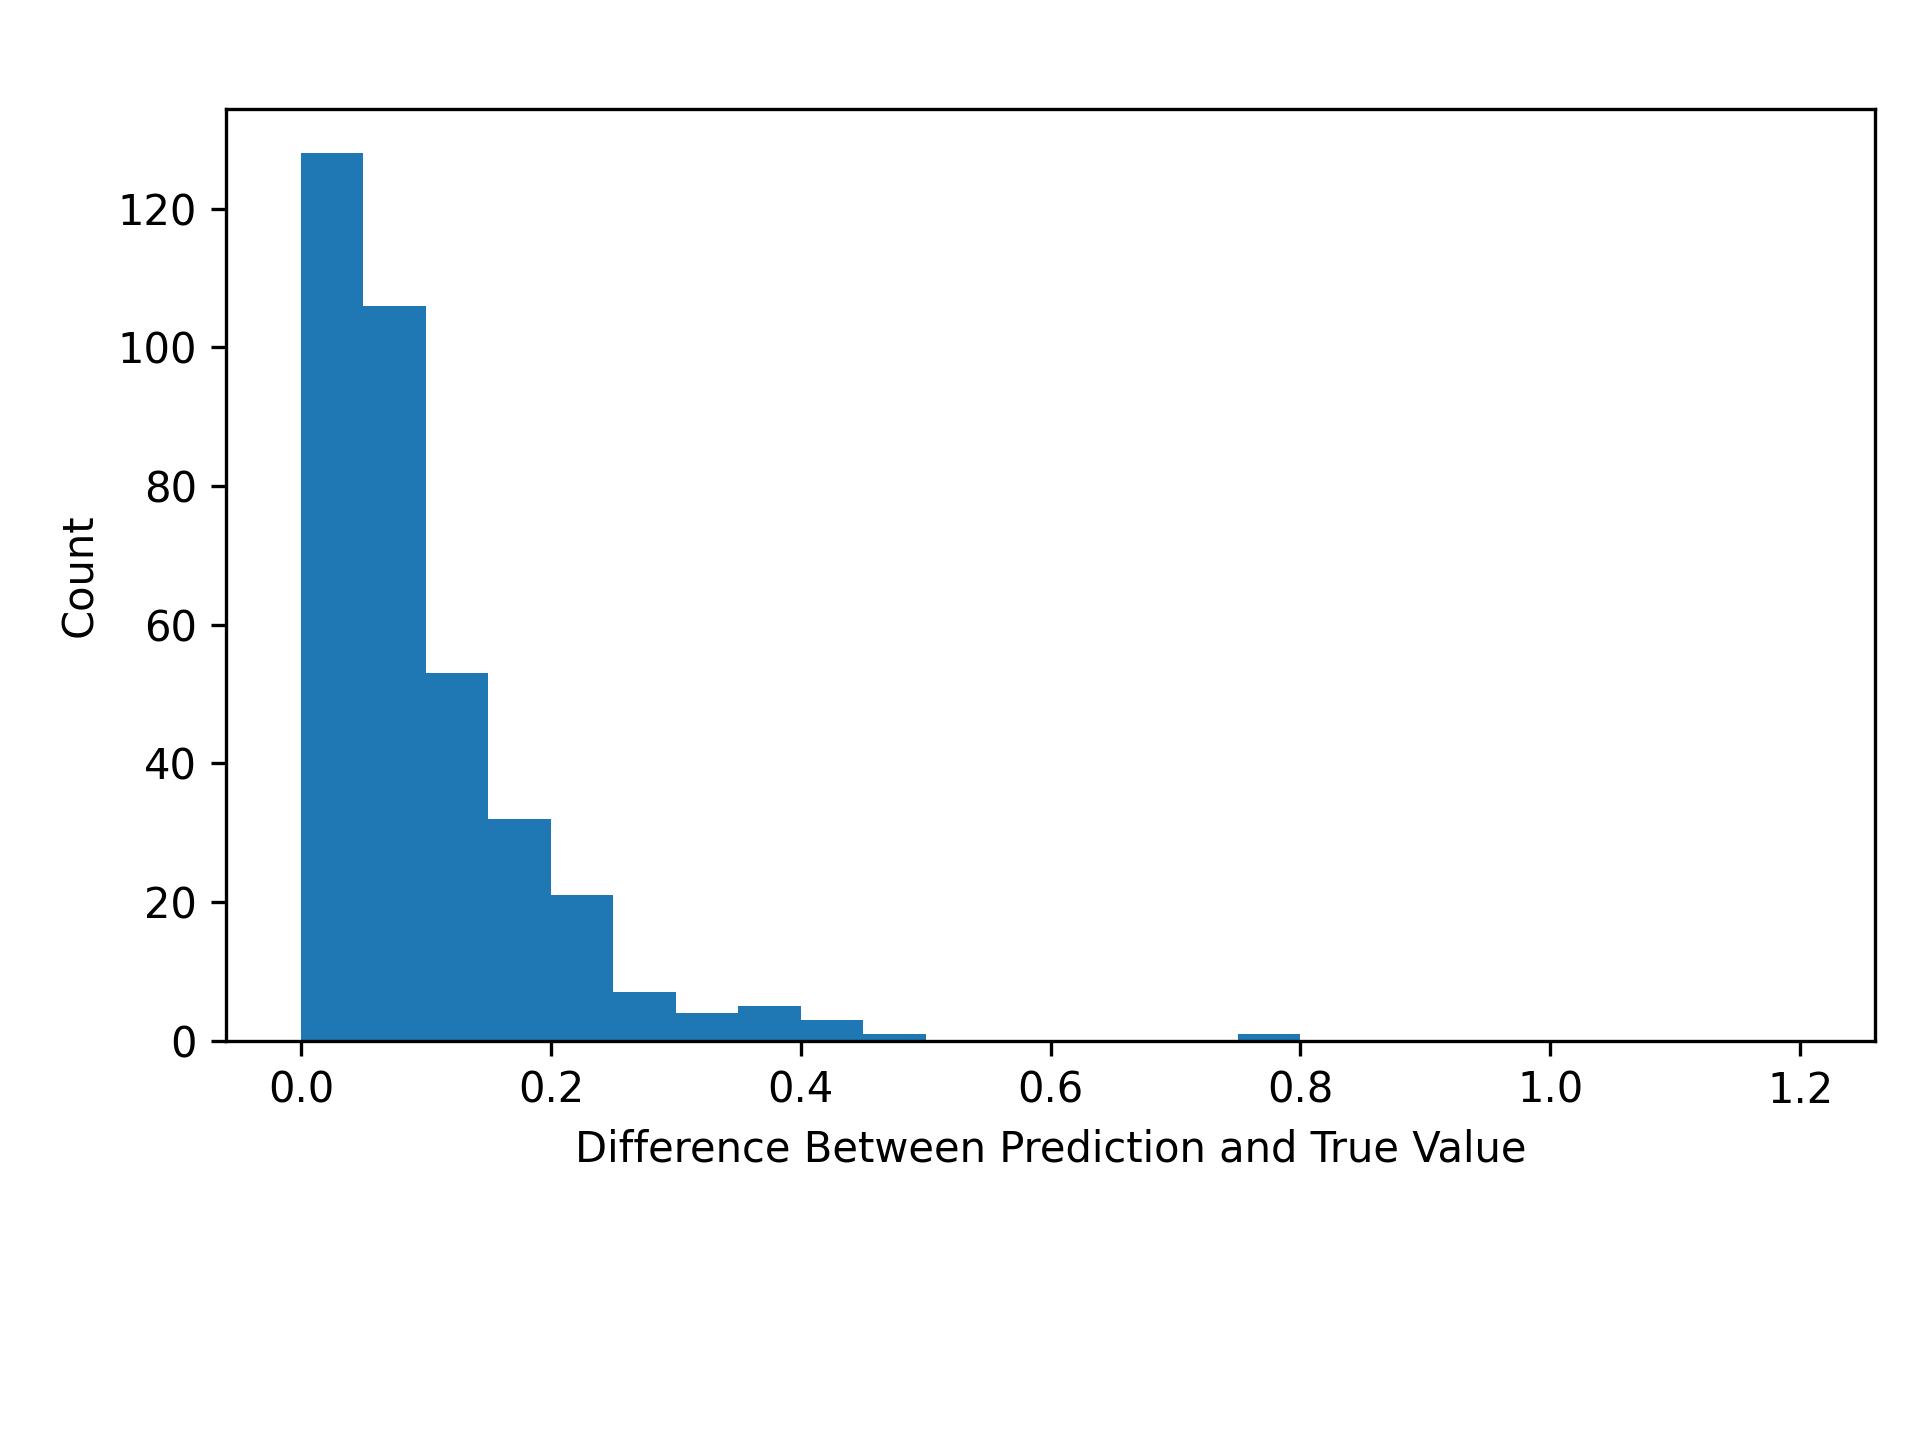
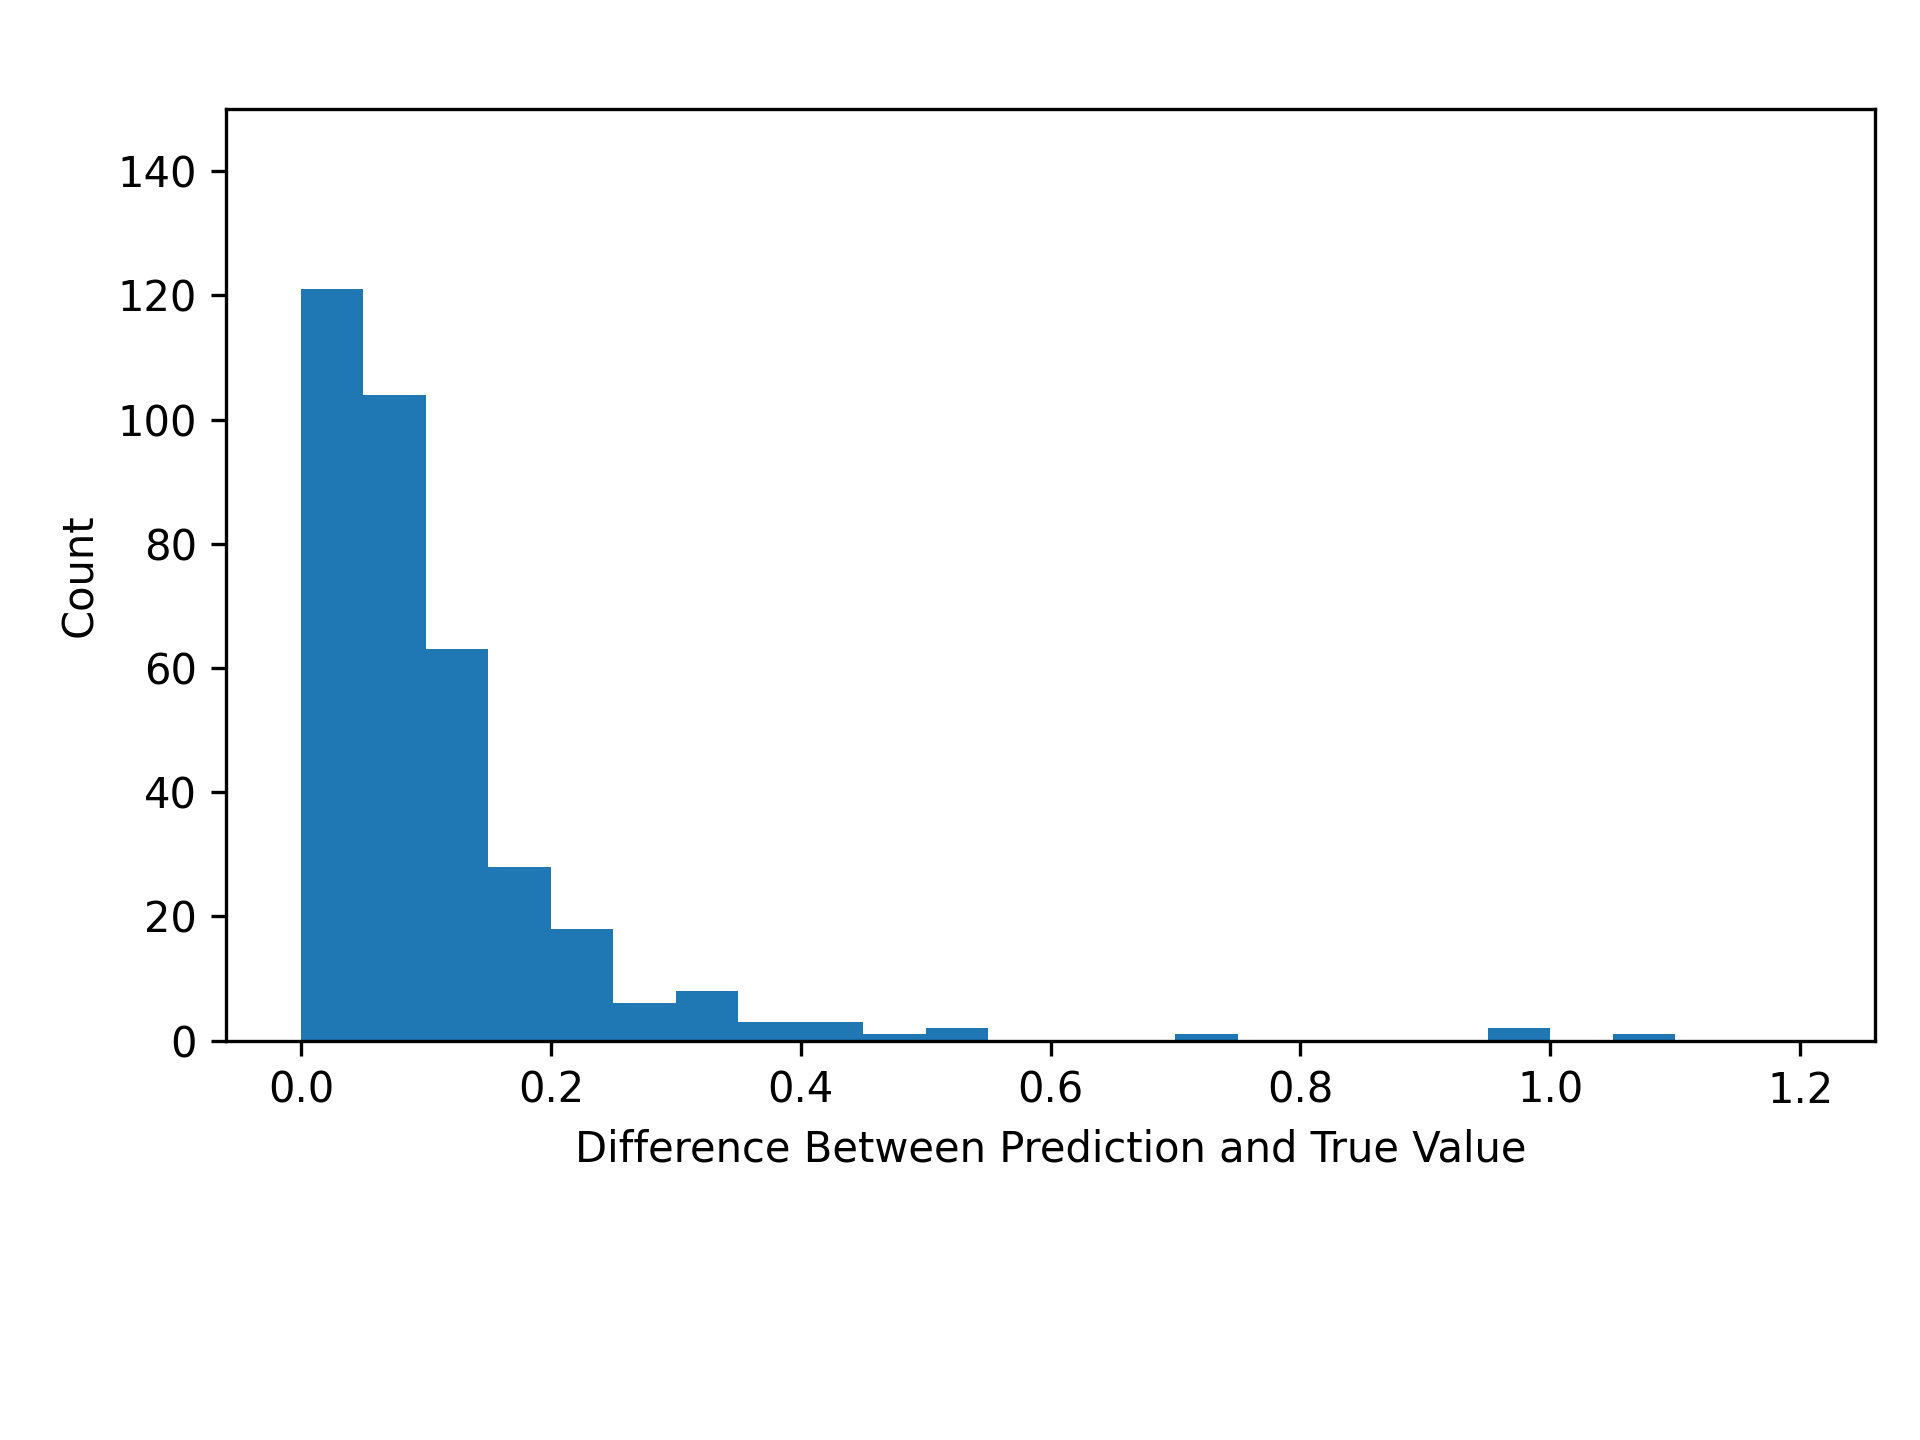
ran experiments, added y labels to histograms
ran experiments, added y labels to histograms

diff --git a/random_forest_regressor.py b/random_forest_regressor.py
@@ -168,8 +168,10 @@ def random_forest_regressor(outcome, features, hyperparams, num):
     deltas = abs(predictions - y_test)
     if outcome == outcome1:
         plt.hist(deltas, bins=np.arange(0, 1.25, 0.05))
+        plt.ylim(0, 150)
     elif outcome == outcome2:
         plt.hist(deltas, bins=np.arange(0, 0.5, 0.025))
+        plt.ylim(0, 200)
     else:
         plt.hist(deltas)
     plt.xlabel("Difference Between Prediction and True Value")
@@ -183,12 +185,27 @@ random_forest_regressor(outcome1, features1, hyperparams1, 1)
 random_forest_regressor(outcome2, features2, hyperparams2, 2)
 
 # this code was used to run random forest regression 100 times and average the results
-'''outcome_1_average = 0
-outcome_2_average = 0
+'''mse1_average = 0
+mse2_average = 0
+r21_average = 0
+r22_average = 0
+log_error1_average = 0
+log_error2_average = 0
 
-for i in range(100):
-    outcome_1_average += random_forest_regressor(outcome1, features1, hyperparams1, 1)
-    outcome_2_average += random_forest_regressor(outcome2, features2, hyperparams2, 2)
+for i in range(1000):
+    mse1, r21, log_error1 = random_forest_regressor(outcome1, features1, hyperparams1, 1)
+    mse2, r22, log_error2 =  random_forest_regressor(outcome2, features2, hyperparams2, 2)
+    mse1_average += mse1
+    mse2_average += mse2
+    r21_average += r21
+    r22_average += r22
+    log_error1_average += log_error1
+    log_error2_average += log_error2
 
-print(outcome_1_average/100)
-print(outcome_2_average/100)'''
+
+print(mse1_average/1000)
+print(mse2_average/1000)
+print(r21_average/1000)
+print(r22_average/1000)
+print(log_error1_average/1000)
+print(log_error2_average/1000)'''

diff --git a/baseline_linear_regression_best_features.py b/baseline_linear_regression_best_features.py
@@ -179,8 +179,10 @@ def lin_reg(outcome, features, num):
     # manually set bin size based on outcome
     if outcome == outcome1:
         plt.hist(deltas, bins=np.arange(0, 1.25, 0.05))
+        plt.ylim(0, 150)
     elif outcome == outcome2:
         plt.hist(deltas, bins=np.arange(0, 0.5, 0.025))
+        plt.ylim(0, 200)
     else:
         plt.hist(deltas)
     plt.xlabel("Difference Between Prediction and True Value")
@@ -197,13 +199,28 @@ lin_reg(outcome2, features2, 2)
 
 
 # this code was used to run linear regression 100 times and average the results
-'''outcome_1_average = 0
-outcome_2_average = 0
+'''mse1_average = 0
+mse2_average = 0
+r21_average = 0
+r22_average = 0
+log_error1_average = 0
+log_error2_average = 0
 
-for i in range(100):
-    outcome_1_average += lin_reg(outcome1, features1, 1)
-    outcome_2_average += lin_reg(outcome2, features2, 2)
+for i in range(1000):
+    mse1, r21, log_error1 = lin_reg(outcome1, features1, 1)
+    mse2, r22, log_error2 =  lin_reg(outcome2, features2, 2)
+    mse1_average += mse1
+    mse2_average += mse2
+    r21_average += r21
+    r22_average += r22
+    log_error1_average += log_error1
+    log_error2_average += log_error2
 
-print(outcome_1_average/100)
-print(outcome_2_average/100)'''
+
+print(mse1_average/1000)
+print(mse2_average/1000)
+print(r21_average/1000)
+print(r22_average/1000)
+print(log_error1_average/1000)
+print(log_error2_average/1000)'''
 
